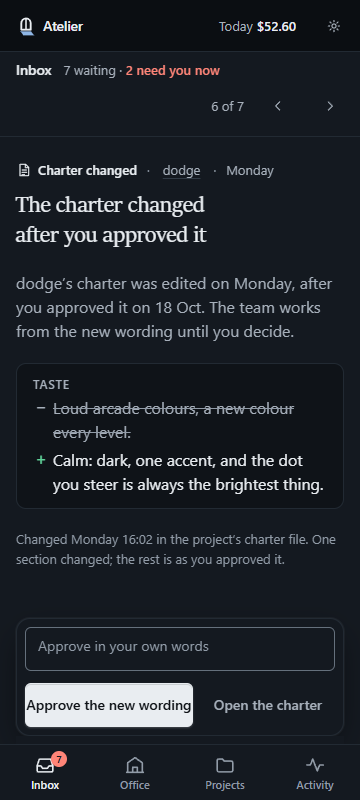
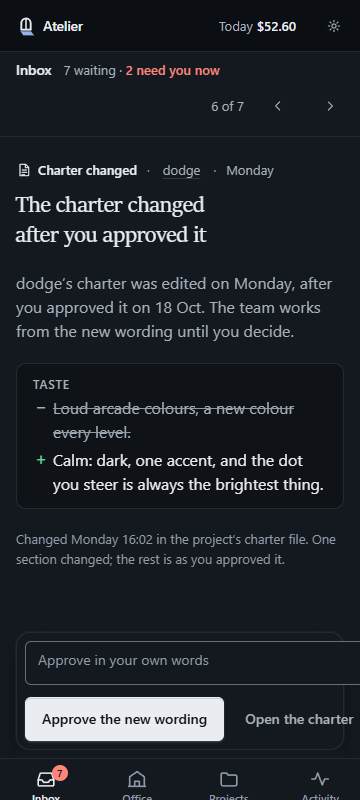
Design D6 round S7 follow-up (review 2): confirm buttons 44 px on the phone, real S7 befores, true sign-in copy
- .p-dialog-act .btn uses --size-control-lg below 768 (same rule as .p-act): every
  confirm (stop lead/task, run audit) is 44 tall at 360/390.
- review/screens2/s7 *-before.png re-rendered at 360 from the pre-fix commit 8363b22
  (366 and 383 px wide), replacing copies of the fixed layout.
- Sign in wrong-token line no longer claims the token changes on reinstall.
- DESIGN.md: .p-dialog entry, Sign in copy, S7 log rows.

Changed region(s): [[0.0611, 0.7812, 0.9778, 1.0], [0.825, 0.9375, 0.9472, 1.0], [0.9167, 0.7812, 0.9472, 0.8125]]

diff --git a/atelier/design/screens2/login.js b/atelier/design/screens2/login.js
@@ -16,7 +16,7 @@
         <label class="field-label" for="token">Access token</label>
         <input class="input" id="token" name="token" type="password" autocomplete="current-password" spellcheck="false" required
           ${v === 'wrong' ? 'value="at_9f2c41e07b" aria-invalid="true" aria-describedby="t-err"' : 'aria-describedby="t-help"'} autofocus>
-        ${v === 'wrong' ? `<span class="field-error" id="t-err" role="alert">${I('alert')}<span>That token didn’t match. Copy it again from <code>atelier open</code>; it changes when Atelier is reinstalled.</span></span>`
+        ${v === 'wrong' ? `<span class="field-error" id="t-err" role="alert">${I('alert')}<span>That token didn’t match. Copy it again from <code>atelier open</code>.</span></span>`
           : '<span class="field-help" id="t-help">It stays signed in on this device until you clear its data.</span>'}
       </div>
       <button class="btn btn-primary l-go" type="submit"${v === 'busy' ? ' aria-busy="true" disabled' : ''}>${v === 'busy' ? 'Signing in…' : 'Sign in'}</button>

diff --git a/atelier/design/screens2/project.css b/atelier/design/screens2/project.css
@@ -255,7 +255,7 @@
   .p-more { min-height: 44px; }
   .p-split summary { min-height: 44px; }
   .p-feed li { grid-template-columns: 64px minmax(0, 1fr); }
-  .p-act .btn { height: var(--size-control-lg); }
+  .p-act .btn, .p-dialog-act .btn { height: var(--size-control-lg); }
   .p-act .btn-primary, .p-act .btn-secondary { flex: 1 1 auto; }
   .p-task-m .num { margin-left: 0; }
   /* Figures as a 2-up grid on the phone: a wrapped line would start with a stray dot */

diff --git a/atelier/DESIGN.md b/atelier/DESIGN.md
@@ -991,7 +991,7 @@ Query on every screen (mockup only): `theme=light` · `motion=reduce` · `state=
 
 - **Layout**: a 400 card (`--surface`, hairline, `--radius-lg`, `--shadow-2`, padding 32) centred on `--bg`; phone: no card edge, top-aligned 48 from the top so the keyboard never covers the button.
 - **Content**: N1 mark 40; "Sign in to Atelier" (`--font-display` `--text-2xl`); "Paste the access token that `atelier open` prints on your PC. You do this once on each device." (`--text-2`); field "Access token" (password, mono, 44 tall, `autocomplete=current-password`), help "It stays signed in on this device until you clear its data."; **Sign in** (primary, full width, 44).
-- **States**: wrong token (the server returns `?login=failed`; `?v=wrong`): the field keeps what you pasted, `aria-invalid`, red border and under it (`role=alert`): "That token didn't match. Copy it again from `atelier open`; it changes when Atelier is reinstalled."; empty submit: "Paste the token first." and focus stays; busy: "Signing in…" disabled (`?v=busy`). Success goes to the Inbox (UX-1 A).
+- **States**: wrong token (the server returns `?login=failed`; `?v=wrong`): the field keeps what you pasted, `aria-invalid`, red border and under it (`role=alert`): "That token didn't match. Copy it again from `atelier open`." (the token lives in `~/.atelier/dashboard-token` and survives a reinstall, so the copy makes no claim about when it changes); empty submit: "Paste the token first." and focus stays; busy: "Signing in…" disabled (`?v=busy`). Success goes to the Inbox (UX-1 A).
 - **Motion**: the card rises 4 px over `--dur-slow` on load; reduced motion: none.
 
 ### Inventory coverage (AC-9)
@@ -1000,7 +1000,7 @@ Every line of `design/inventory.md` (95) has its home in `screens2/`, written do
 
 ### Sheet additions (D6)
 
-New shared parts, all in `screens2/hf.css` and built from tokens: `.hf-notice` (neutral self-retrying error), `.hf-live` (fresh / stale line), `.hf-empty` (serif line + sentence + one action), `.is-tick` (figure changes in place), `.strip` (window strip; moved from `office.css` to `hf.css` in S5 because Projects uses it too), `.desk` (desk card with scene). Projects (`projects.css`): `.pj` (project card), `.pj-phase` (phase track at text size). Activity (`activity.css`): `.act-row`, `.act-day`, `.act-filters` (styled native select + pressed toggle). Forms (`forms.css`, New project and Settings): `.f-form`, `.f-sec`, `.choice.is-two` (a choice with a line under it), `.f-check` (checkbox), `.f-switch` (on/off that applies at once), `.f-unit` ($ / % inside the field), `.f-saved` (inline "Saved"). New project (`new.css`): `.n-next` (numbered steps), `.n-fail`. Settings (`settings.css`): `.s-nav` (section nav following the scroll), `.s-hold`, `.s-earned`, `.s-team`. Project page (`project.css`): `.p-phases` + `.pips` (phase track with outcomes), `.p-stages` (task stage track, also on the task page), `.p-win` (the window glyph at text size), `.p-task` (task card), `.p-row` (two-line link row), `.p-pop` (menu: 272 wide, items 44 tall with a one-line hint), `.p-dialog` (confirm). Task page (`task.css`, loads `project.css`): `.t-stages` (stage track filling to its progress), `.t-pulse` (last active / quiet note), `.t-tries` (try dots), `.t-dock` (the Inbox dock, sticky in a page), `.t-lb` (proof viewer dialog), `.t-review`. Round S7 (`project.css`): `.p-h3` (group heading with count), `.p-trow` (task row with try dots and ID), `.t-tries` moved here from `task.css` (both pages use it), `.p-id`, `.p-eta`, `.p-audit` (audit running panel), `.p-find` (finding fold), `.p-lbl` (a label over a paragraph), `.p-act` (a row of buttons that wraps), `.p-rulings`, `.p-msgs`, `.p-chtext` (charter editor), `.p-gh` (Not on GitHub in the head), `.p-empty` (a tab's empty state), `.p-meta`. Sign in (`login.css`): `.l-card`, `.l-go`. Settings: `.s-spent`. Inbox (`inbox.css`): `.diff` (what changed in a document: section, − old, + new), `.olist` (a short numbered list read in place), `.doc` (a document excerpt on the sunken surface), the window dot in `.agent-dot`. `components.css` is unchanged.
+New shared parts, all in `screens2/hf.css` and built from tokens: `.hf-notice` (neutral self-retrying error), `.hf-live` (fresh / stale line), `.hf-empty` (serif line + sentence + one action), `.is-tick` (figure changes in place), `.strip` (window strip; moved from `office.css` to `hf.css` in S5 because Projects uses it too), `.desk` (desk card with scene). Projects (`projects.css`): `.pj` (project card), `.pj-phase` (phase track at text size). Activity (`activity.css`): `.act-row`, `.act-day`, `.act-filters` (styled native select + pressed toggle). Forms (`forms.css`, New project and Settings): `.f-form`, `.f-sec`, `.choice.is-two` (a choice with a line under it), `.f-check` (checkbox), `.f-switch` (on/off that applies at once), `.f-unit` ($ / % inside the field), `.f-saved` (inline "Saved"). New project (`new.css`): `.n-next` (numbered steps), `.n-fail`. Settings (`settings.css`): `.s-nav` (section nav following the scroll), `.s-hold`, `.s-earned`, `.s-team`. Project page (`project.css`): `.p-phases` + `.pips` (phase track with outcomes), `.p-stages` (task stage track, also on the task page), `.p-win` (the window glyph at text size), `.p-task` (task card), `.p-row` (two-line link row), `.p-pop` (menu: 272 wide, items 44 tall with a one-line hint), `.p-dialog` (confirm; its `.p-dialog-act` buttons are `--size-control-lg`, 44 tall, below 768, like `.p-act`). Task page (`task.css`, loads `project.css`): `.t-stages` (stage track filling to its progress), `.t-pulse` (last active / quiet note), `.t-tries` (try dots), `.t-dock` (the Inbox dock, sticky in a page), `.t-lb` (proof viewer dialog), `.t-review`. Round S7 (`project.css`): `.p-h3` (group heading with count), `.p-trow` (task row with try dots and ID), `.t-tries` moved here from `task.css` (both pages use it), `.p-id`, `.p-eta`, `.p-audit` (audit running panel), `.p-find` (finding fold), `.p-lbl` (a label over a paragraph), `.p-act` (a row of buttons that wraps), `.p-rulings`, `.p-msgs`, `.p-chtext` (charter editor), `.p-gh` (Not on GitHub in the head), `.p-empty` (a tab's empty state), `.p-meta`. Sign in (`login.css`): `.l-card`, `.l-go`. Settings: `.s-spent`. Inbox (`inbox.css`): `.diff` (what changed in a document: section, − old, + new), `.olist` (a short numbered list read in place), `.doc` (a document excerpt on the sunken surface), the window dot in `.agent-dot`. `components.css` is unchanged.
 
 ### Endpoint needs (for frontend; read data only, no new actions)
 
@@ -1138,7 +1138,7 @@ Renders: the phone's first screen of all eight screens tiled in two rows (`revie
 
 ### Screens round S7 (review fixes: 360 px, inventory coverage; design-critique, accessibility-review, ux-copy)
 
-The reviewer found two Inbox items wider than a 360 phone and several inventory lines with no high-fi home. Renders: `runs/pjv7/tools/s7-matrix.mjs` = every screen × every state + 35 variants (all Inbox kinds, every project tab and its states, Sign in) × **360**, 390, 768, 1440 × dark, light (`runs/pjv7/evidence/s7m/`, results in `s7-matrix.txt`): **568 renders, 0 console errors, 0 sideways scroll (360 included), 0 broken images**; the same figures on every page ($52.60 today, 41 % plan). Small targets: the new action buttons were 36 tall on the phone (Run an audit, Yes / No, Save, Approve, Add); now 44 (`.p-act .btn` at < 768), rechecked with `a11y.mjs` (0 small, 0 unnamed, a ring on every Tab stop at 390 dark and 1440 light). The matrix's "unnamed" rows are buttons inside closed folds (no rendered text yet), the known false positive. Contrast (`pcontrast.mjs`, 390, both modes) on Tasks, Audits with a finding open and an audit running, the edited charter, atelier-ui not on GitHub, Sign in with a wrong token and Settings: **0 under AA** (lowest 6.26 dark, 6.05 light). Coverage: `s2-cover.mjs` 95 of 95. Before / after: `review/screens2/s7/`.
+The reviewer found two Inbox items wider than a 360 phone and several inventory lines with no high-fi home. Renders: `runs/pjv7/tools/s7-matrix.mjs` = every screen × every state + 35 variants (all Inbox kinds, every project tab and its states, Sign in) × **360**, 390, 768, 1440 × dark, light (`runs/pjv7/evidence/s7m/`, results in `s7-matrix.txt`): **568 renders, 0 console errors, 0 sideways scroll (360 included), 0 broken images**; the same figures on every page ($52.60 today, 41 % plan). Small targets: the new action buttons were 36 tall on the phone (Run an audit, Yes / No, Save, Approve, Add); now 44 (`.p-act .btn` at < 768), rechecked with `a11y.mjs` (0 small, 0 unnamed, a ring on every Tab stop at 390 dark and 1440 light). The matrix's "unnamed" rows are buttons inside closed folds (no rendered text yet), the known false positive. Contrast (`pcontrast.mjs`, 390, both modes) on Tasks, Audits with a finding open and an audit running, the edited charter, atelier-ui not on GitHub, Sign in with a wrong token and Settings: **0 under AA** (lowest 6.26 dark, 6.05 light). Coverage: `s2-cover.mjs` 95 of 95. Before / after: `review/screens2/s7/`; the two "before" shots are re-rendered at 360 from the pre-fix commit 8363b22 (`runs/pjv7/scratch/before.mjs`: the charter item 366 wide, the GitHub blocker 383), because round 1's review shots were overwritten by a later re-shot of the fixed pages.
 
 | Found | Changed | Why |
 |---|---|---|
@@ -1151,6 +1151,8 @@ The reviewer found two Inbox items wider than a 360 phone and several inventory 
 | (copy) Run an audit: no word on cost | The confirm says how long, what it cost last time, where findings go | It costs money (D5); the owner decides knowing that |
 | (copy) Tasks list: missing groups could read as missing features | One line says which groups are empty and hidden | Plain sentence over empty headings (AC-7) |
 | (critique, review) The Office head says "2 need you" but only one hand is raised: dodge's design gate showed only as quiet words | The quiet floor line carries "● 1 needs you now" in red after the name | A glance at the floors must match the head (AC-1) |
+| (a11y, review 2) The shared confirm's buttons (Stop the lead / task, Run the audit, Keep it running, Not now) were 36 tall on the phone | `.p-dialog-act .btn` is `--size-control-lg` (44) below 768, the same rule as `.p-act`; `runs/pjv7/tools/dlg-size.mjs`: every confirm on Project (stop, audit), Task (stop) and Settings (stop) at 360 / 390, both modes, 44 tall, 0 errors | 2.5.5 target size; AC-12 |
+| (copy, review 2) Sign in's wrong-token line claimed the token changes on reinstall; it lives in `~/.atelier/dashboard-token` and survives one | "That token didn't match. Copy it again from `atelier open`." | Say only what is true (AC-7: plain sentences) |
 | (a11y) New buttons and folds: Run an audit, Yes / No, Save, Approve, Add | All ≥ 44 tall, named by their result, disabled until there is something to save or add; errors under their field with `aria-invalid` | Same rules as the Inbox dock |
 
 ## Open questions
